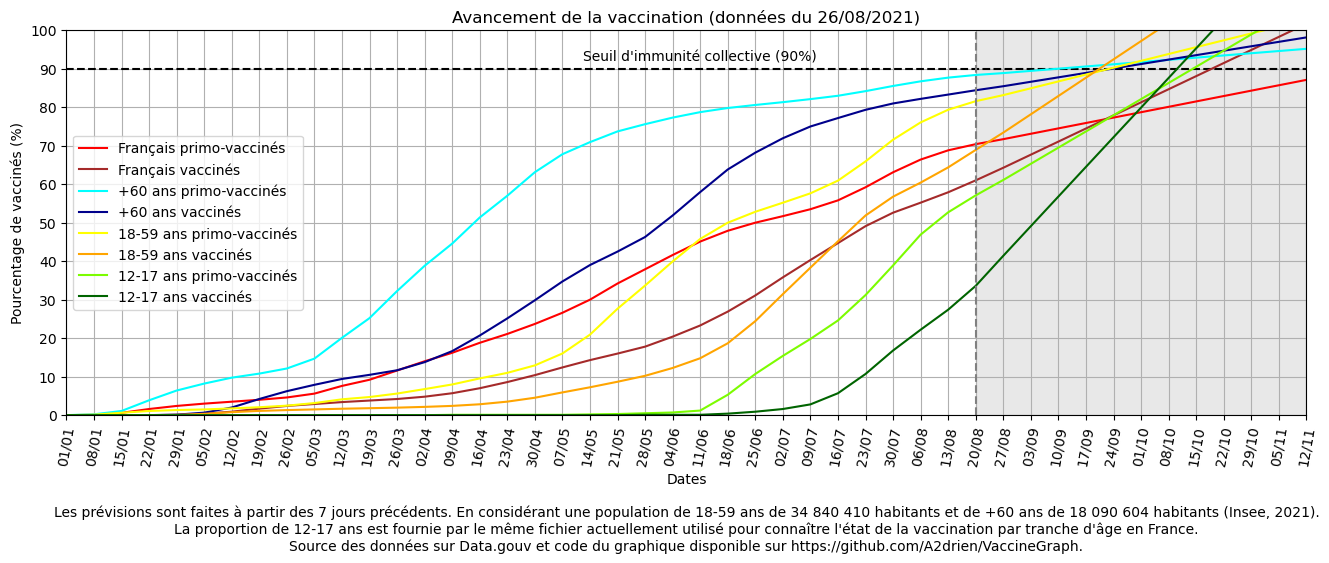
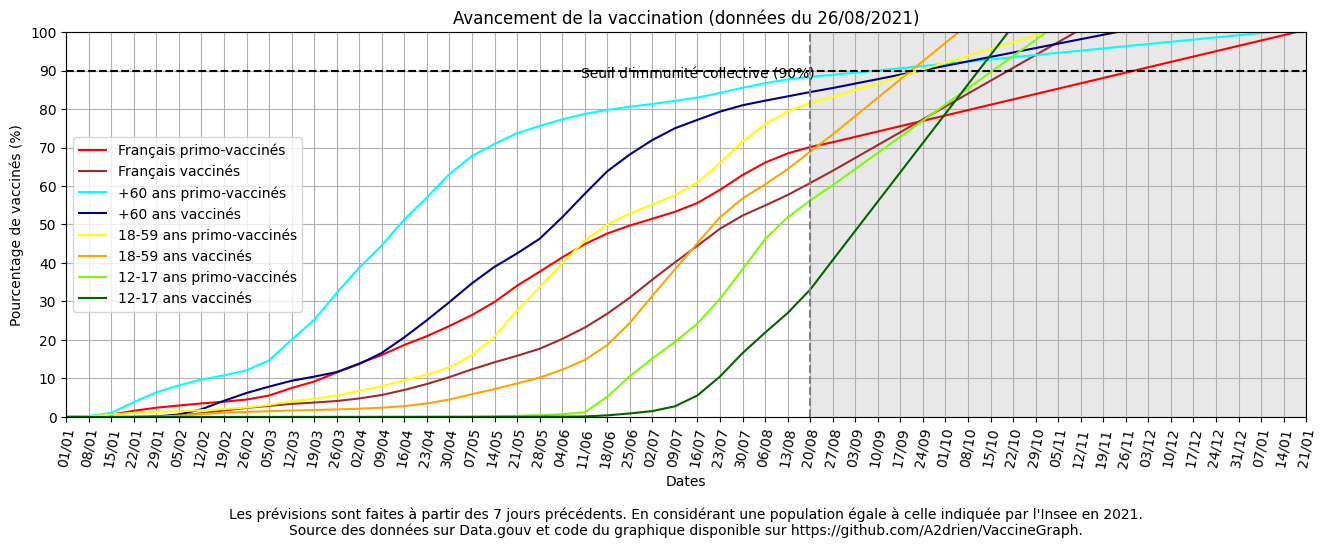
Fonctionne, mais sans limites de date de fin

Changed region(s): [[0.0, 0.0, 0.9894, 0.9927]]

diff --git a/scriptVaccination.py b/scriptVaccination.py
@@ -8,7 +8,7 @@ nom_fichier = "vacsi-a-fra-2021-08-26-19h10.csv"                                
 
 #Paramètres du graphique
 limite_date_debut = "2021-01-01"                                                #Indique la première date des données (0 pour conserver la liste)
-limite_date_fin = "2021-11-12"                                                             #Exclure les données à partir d'une certaine date (0 pour conserver la liste)
+limite_date_fin = 0                                                             #Exclure les données à partir d'une certaine date (0 pour conserver la liste)
 limite_nombre_jour = 0                                                          #Indique le nombre de dates à inscrire sur l'axe des abscisses (0 ou 1 conserve la liste)
 limite_ecart_jour = 7                                                           #Espace de n jours les dates (1 pour conserver la liste)
 nb_jour_prediction = 7                                                          #Fait des prévisions sur les jours suivants à partir des n derniers jours
@@ -26,8 +26,7 @@ liste_courbes = [   ( 0, 80, 1, "red"),
                     (12, 17, 1, "lawngreen"),
                     (12, 17, 2, "darkgreen")]
 
-#Données sur la population (Insee, 2021) (https://www.insee.fr/fr/outil-interactif/5367857/details/20_DEM/21_POP/21C_Figure3#)
-#Format : (age minimal conserné, population de la tranche d'âge)
+#Données sur la population en format (age minimal conserné, population de la tranche d'âge) (Insee, 2021) (https://www.insee.fr/fr/outil-interactif/5367857/details/20_DEM/21_POP/21C_Figure3#)
 liste_donnees_population = [( 0, 3632671),
                             ( 5, 4069407),
                             (10, 1703491),
@@ -78,10 +77,14 @@ def formatNombre(nombre):
             j += 1
     return nombre
 
-def analyseListeDonnees(liste_date, liste_donnees):
-    for liste in liste_donnees:
-        if len(liste) != len(liste_dates) or liste[-1] < 100: return False
-    return True
+#Tant que chacune des courbes n'atteint pas 100 ET que chacune comporte autant d'éléments que la liste des dates, continuer la boucle
+def analyseListeDonnees(liste_dates, liste_courbes):
+    liste_nb_element_courbe = []
+    for courbe in liste_courbes:
+        liste_nb_element_courbe.append(len(courbe))
+        if len(courbe) != len(liste_dates): return True
+    if max(liste_nb_element_courbe) != len(liste_courbes[numero_passage_courbe]): return True
+    return False
 
 #Début du script
 fichier = open(nom_fichier,"r")                                                 #Ouvre le fichier
@@ -131,11 +134,12 @@ for donnees in table:
     date = donnees[1]
     primo_injections = donnees[2]
     injections_completes = donnees[3]
+
     #Dans le cas où la ligne concerne les injections tout âge confondu...
     if age == 0:
         liste_dates.append(date)
     
-    #Dans le cas où la ligne concerne les injections de personnes entre 12 et 17 ans...
+    #Dans le cas où la ligne concerne les injections de personnes entre 0 et 4 ans...
     elif age == 4:
         liste_donnees[0].append(primo_injections)
         liste_donnees[1].append(injections_completes)
@@ -195,11 +199,6 @@ for donnees in table:
 
 position_date_limite = len(liste_dates)-1                                       #Sauvegarde de la position du dernier jour dont on a les données
 
-#Passe le format de toutes les dates : AAAA-MM-JJ -> JJ/MM
-for i in range(len(liste_dates)): liste_dates[i] = liste_dates[i][8:11]+"/"+liste_dates[i][5:7]
-
-liste_dates_reduite = ecartDate(reduction(liste_dates))                         #éeduit la liste de dates tout en conservant l'original
-
 
 #Début de la contruction du graphique
 plt.figure(figsize = (16, 5))                                                   #Définit une dimension en 16/5
@@ -207,6 +206,9 @@ plt.tick_params(axis = 'x', rotation = 80)                                      
 
 
 #Trace les courbes
+liste_titre = []
+liste_couleur = []
+
 for courbe in liste_courbes:                                                    #On prend une à une les courbes demandées
     courbe_finale = [0]*len(liste_donnees[0])                                   #Contient le nombre final d'injection pour la tranche d'âge demandée
     population_totale = 0
@@ -234,44 +236,56 @@ for courbe in liste_courbes:                                                    
     if courbe[2] == 1: titre += " primo-vaccinés"
     else: titre += " vaccinés"
     
-    couleur = courbe[3]
-    
-    plt.plot(liste_dates_reduite, ecartDate(reduction(projectionObjectif(courbe_finale))), couleur, label = titre)
+    liste_titre.append(titre)
+    liste_couleur.append(courbe[3])
+    liste_courbes[liste_courbes.index(courbe)] = courbe_finale
 
-"""
+
+liste_coeff = []
+numero_passage_courbe = 0
+liste_limite_atteinte = [False]*len(liste_courbes)
+
+#Ajout des différents coeffs dans la liste adéquate
+for i in range(len(liste_courbes)): liste_coeff.append((liste_courbes[i][-1]-liste_courbes[i][-1-nb_jour_prediction])/nb_jour_prediction)
+
 #Tant que la proportion de vaccinés n'est pas de 100%, étendre le graphique
-#!!!
-coeff = (proportion_vaccines[-1]-proportion_vaccines[-1-nb_jour_prediction])/nb_jour_prediction
-i = 0
-limite_atteinte = False
 #Si il n'y a pas de date limite de fin, alors créer des dates jusqu'à ce que les 100% de vaccinés soient atteints et/ou dépassés ET que la limite d'écart entre les dates soit respecté
 #Sinon, alors créer des dates jusqu'à ce que la date limite soit atteinte et/ou dépassée ET que la limite d'écart entre les dates soit respecté
-while (limite_date_fin == 0 and (i <= (100-proportion_vaccines[-1]) /coeff or ( len(liste_dates)-1) % limite_ecart_jour != 0) ) or (limite_atteinte == False and (len(liste_dates)-1)%limite_ecart_jour != 0):
-    date = date[0:8] + str(int(date[8:])+1)
-    if len(date[8:]) == 1: date = date[0:8] + "0" + date[-1] 
-    if date[5:7] == "01" and date[8:10] == "32": date = date[0:5] + "02-01"
-    elif date[5:7] == "02" and date[8:10] == "29" and int(date[0:4])%4 != 0: date = date[0:5] + "03-01"
-    elif date[5:7] == "02" and date[8:10] == "30" and int(date[0:4])%4 == 0: date = date[0:5] + "03-01"
-    elif date[5:7] == "03" and date[8:10] == "32": date = date[0:5] + "04-01"
-    elif date[5:7] == "04" and date[8:10] == "31": date = date[0:5] + "05-01"
-    elif date[5:7] == "05" and date[8:10] == "32": date = date[0:5] + "06-01"
-    elif date[5:7] == "06" and date[8:10] == "31": date = date[0:5] + "07-01"
-    elif date[5:7] == "07" and date[8:10] == "32": date = date[0:5] + "08-01"
-    elif date[5:7] == "08" and date[8:10] == "32": date = date[0:5] + "09-01"
-    elif date[5:7] == "09" and date[8:10] == "31": date = date[0:5] + "10-01"
-    elif date[5:7] == "10" and date[8:10] == "32": date = date[0:5] + "11-01"
-    elif date[5:7] == "11" and date[8:10] == "31": date = date[0:5] + "12-01"
-    elif date[5:7] == "12" and date[8:10] == "32": date = str(int(date[0:4])+1) + "-01-01"
-    i += 1
-    liste_dates.append(date)
-    if date == limite_date_fin: limite_atteinte = True
-"""
+while analyseListeDonnees(liste_dates, liste_courbes) or ((limite_date_fin == 0 and (liste_courbes[numero_passage_courbe][-1] < 100 or ( len(liste_courbes[numero_passage_courbe])-1) % limite_ecart_jour != 0) )   or   (liste_limite_atteinte[numero_passage_courbe] == False and (len(liste_courbes[numero_passage_courbe])-1)%limite_ecart_jour != 0)):
+    liste_courbes[numero_passage_courbe].append(liste_courbes[numero_passage_courbe][-1]+liste_coeff[numero_passage_courbe])
+    if len(liste_courbes[numero_passage_courbe]) > len(liste_dates):
+            date = date[0:8] + str(int(date[8:])+1)
+            if len(date[8:]) == 1: date = date[0:8] + "0" + date[-1] 
+            if date[5:7] == "01" and date[8:10] == "32": date = date[0:5] + "02-01"
+            elif date[5:7] == "02" and date[8:10] == "29" and int(date[0:4])%4 != 0: date = date[0:5] + "03-01"
+            elif date[5:7] == "02" and date[8:10] == "30" and int(date[0:4])%4 == 0: date = date[0:5] + "03-01"
+            elif date[5:7] == "03" and date[8:10] == "32": date = date[0:5] + "04-01"
+            elif date[5:7] == "04" and date[8:10] == "31": date = date[0:5] + "05-01"
+            elif date[5:7] == "05" and date[8:10] == "32": date = date[0:5] + "06-01"
+            elif date[5:7] == "06" and date[8:10] == "31": date = date[0:5] + "07-01"
+            elif date[5:7] == "07" and date[8:10] == "32": date = date[0:5] + "08-01"
+            elif date[5:7] == "08" and date[8:10] == "32": date = date[0:5] + "09-01"
+            elif date[5:7] == "09" and date[8:10] == "31": date = date[0:5] + "10-01"
+            elif date[5:7] == "10" and date[8:10] == "32": date = date[0:5] + "11-01"
+            elif date[5:7] == "11" and date[8:10] == "31": date = date[0:5] + "12-01"
+            elif date[5:7] == "12" and date[8:10] == "32": date = str(int(date[0:4])+1) + "-01-01"
+            liste_dates.append(date)
+    if date == limite_date_fin: liste_limite_atteinte[numero_passage_courbe] = True
+    numero_passage_courbe = (numero_passage_courbe + 1)%len(liste_courbes)
+
+#Passe le format de toutes les dates : AAAA-MM-JJ -> JJ/MM
+for i in range(len(liste_dates)): liste_dates[i] = liste_dates[i][8:11]+"/"+liste_dates[i][5:7]
+
+liste_dates_reduite = ecartDate(reduction(liste_dates))                         #éeduit la liste de dates tout en conservant l'original
+    
+for i in range(len(liste_courbes)): plt.plot(liste_dates_reduite, ecartDate(reduction(projectionObjectif(liste_courbes[i]))), liste_couleur[i], label = liste_titre[i])
+
 
 #Trace une ligne de pointillé verticale au niveau des 100% si le seuil d'immunité collective n'est pas égal à 0
 if seuil_immunite_collective != 0: plt.axhline(y = 100 * seuil_immunite_collective, color = 'black', linestyle = '--')
 
 #Trace une ligne de pointillé horizontale indiquant le seuil d'immunité colllective
-plt.text(len(liste_dates_reduite)/2, 100 *seuil_immunite_collective + 2, f"Seuil d'immunité collective ({int(seuil_immunite_collective*100)}%)", horizontalalignment = 'center')
+plt.text(len(liste_dates_reduite)/2, 100 *seuil_immunite_collective - 2, f"Seuil d'immunité collective ({int(seuil_immunite_collective*100)}%)", horizontalalignment = 'center')
 
 #Trace une zone en gris clair délimitée par une ligne verticales en pointillé pour désigner les prédictions des courbes (si les données n'ont pas été raccourcis)
 if empecher_valeurs_previsionnelles == False:
